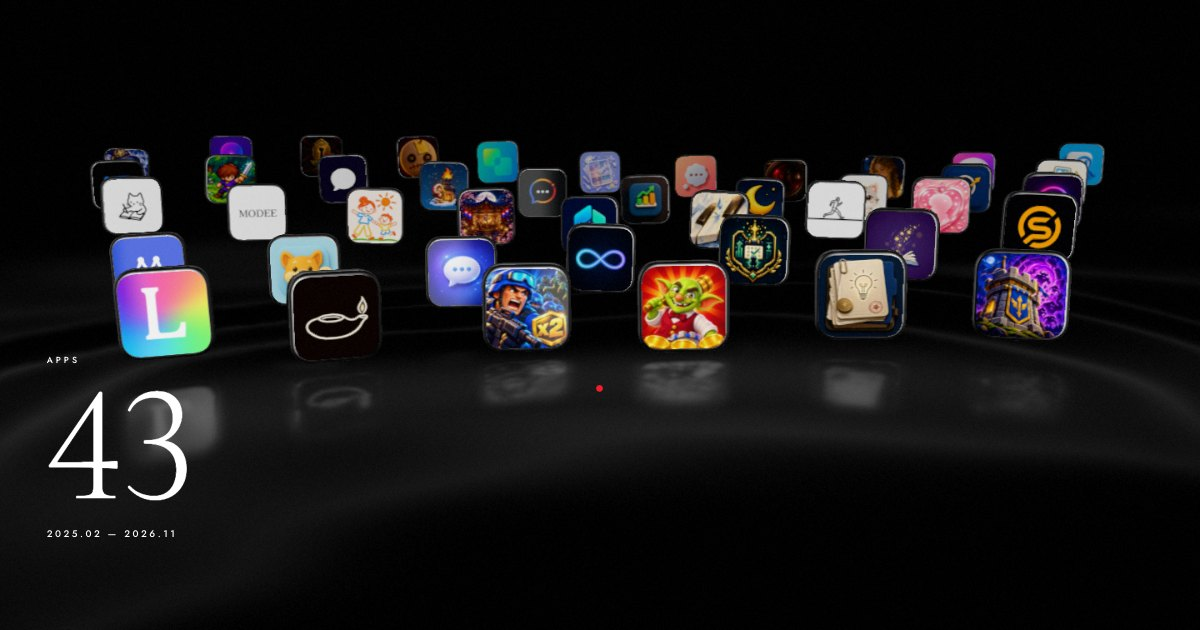
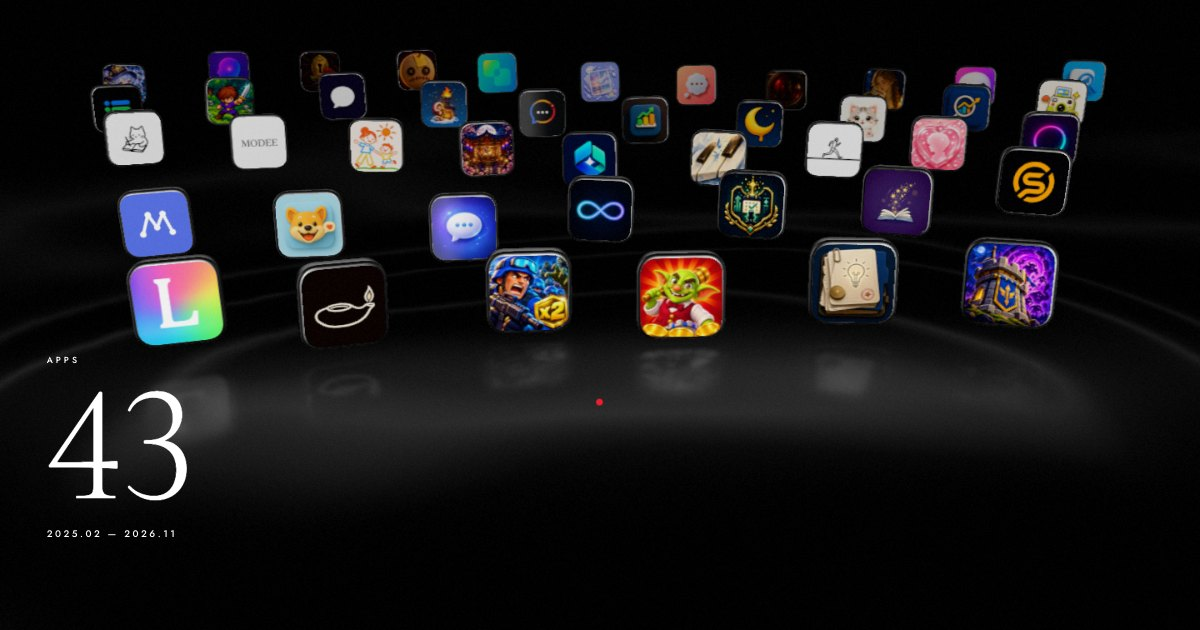
Spread the desktop first-screen rows so no app hides behind another
The desktop camera looks down a little more and the rows sit further
apart, so all 43 icons show in full on the first screen (14 were partly
covered before). Regenerate og.jpg.

Changed region(s): [[0.0617, 0.0603, 0.925, 0.7238], [0.6783, 0.573, 0.74, 0.6635], [0.4933, 0.6333, 0.5242, 0.6635]]

diff --git a/index.html b/index.html
@@ -12,14 +12,14 @@
     <meta property="og:url" content="https://won-space.com/">
     <meta property="og:title" content="won-space.com · 43 APPS">
     <meta property="og:description" content="43 apps on the App Store and Google Play, 2025.02 — 2026.11. 7 YouTube channels.">
-    <meta property="og:image" content="https://won-space.com/portfolio/og.jpg?v=20261122j">
+    <meta property="og:image" content="https://won-space.com/portfolio/og.jpg?v=20261122k">
     <meta property="og:image:width" content="1200">
     <meta property="og:image:height" content="630">
     <meta property="og:image:alt" content="App icon tiles on a dark glossy stage">
     <meta name="twitter:card" content="summary_large_image">
     <meta name="twitter:title" content="won-space.com · 43 APPS">
     <meta name="twitter:description" content="43 apps on the App Store and Google Play, 2025.02 — 2026.11. 7 YouTube channels.">
-    <meta name="twitter:image" content="https://won-space.com/portfolio/og.jpg?v=20261122j">
+    <meta name="twitter:image" content="https://won-space.com/portfolio/og.jpg?v=20261122k">
     <link rel="icon" type="image/png" sizes="32x32" href="./favicon.png?v=20260424">
     <link rel="icon" type="image/x-icon" href="./favicon.ico?v=20260424">
     <link rel="shortcut icon" type="image/x-icon" href="./favicon.ico?v=20260424">
@@ -27,9 +27,9 @@
     <link rel="preconnect" href="https://fonts.googleapis.com">
     <link rel="preconnect" href="https://fonts.gstatic.com" crossorigin>
     <link href="https://fonts.googleapis.com/css2?family=Cormorant+Garamond:wght@300;400&family=Jost:wght@400;500&family=IBM+Plex+Sans+KR:wght@400;500&display=swap" rel="stylesheet">
-    <link rel="stylesheet" href="portfolio/home.css?v=20261122j">
-    <link rel="modulepreload" href="portfolio/lib/three-0.186.1.min.js?v=20261122j">
-    <link rel="modulepreload" href="portfolio/stage.js?v=20261122j">
+    <link rel="stylesheet" href="portfolio/home.css?v=20261122k">
+    <link rel="modulepreload" href="portfolio/lib/three-0.186.1.min.js?v=20261122k">
+    <link rel="modulepreload" href="portfolio/stage.js?v=20261122k">
 </head>
 <body>
     <a class="skip-link" href="#apps">Skip to index</a>
@@ -279,6 +279,6 @@
 
         window.WON = { projects, appStats, channels, userOS, getStoreUrl, openProject };
     </script>
-    <script type="module" src="portfolio/home.js?v=20261122j"></script>
+    <script type="module" src="portfolio/home.js?v=20261122k"></script>
 </body>
 </html>

diff --git a/portfolio/stage.js b/portfolio/stage.js
@@ -31,7 +31,7 @@ import {
     WebGLRenderTarget,
     Pass,
     FullScreenQuad,
-} from "./lib/three-0.186.1.min.js?v=20261122j";
+} from "./lib/three-0.186.1.min.js?v=20261122k";
 
 const BLACK = 0x080808;
 
@@ -548,17 +548,18 @@ normal = normalize((viewMatrix * vec4(liqN, 0.0)).xyz);`)
             heroCam.pos.set(0, 7.6, 19);
             heroCam.target.set(0, 0.5, -12);
         } else {
-            heroCam.pos.set(0, 5.2, 15.5);
-            heroCam.target.set(0, -1.1, -12);
+            // 데스크톱: 조금 내려다봐서 줄과 줄 사이를 벌린다(뒷줄 앱이 앞줄에 가리지 않게).
+            heroCam.pos.set(0, 7.4, 15.5);
+            heroCam.target.set(0, -2.4, -12);
         }
         const rows = portrait ? Math.max(3, Math.round(n / 6.2)) : Math.max(3, Math.round(n / 8.6));
         const counts = rowCounts(n, rows, portrait ? 0.14 : 0.2);
         const z0 = portrait ? -3 : -4;
-        const dz = portrait ? 4.4 : 5.4;
+        const dz = portrait ? 4.4 : 6.0;
         const fill = portrait ? 0.94 : 0.86;
         const rowZ = counts.map((_, k) => z0 - k * dz);
         const halfW = (k) => fill * (heroCam.pos.z - rowZ[k]) * tanH;
-        const s = Math.min(1.5, ((2 * halfW(0)) / counts[0]) * 0.62);
+        const s = Math.min(1.5, ((2 * halfW(0)) / counts[0]) * (portrait ? 0.62 : 0.56));
         const slots = [];
         counts.forEach((c, row) => {
             const sp = (2 * halfW(row)) / c;

diff --git a/portfolio/home.js b/portfolio/home.js
@@ -30,8 +30,8 @@ import {
     Vector2,
     Vector3,
     WebGLRenderer,
-} from "./lib/three-0.186.1.min.js?v=20261122j";
-import { createStage, DepthOfFieldPass, GrainPass } from "./stage.js?v=20261122j";
+} from "./lib/three-0.186.1.min.js?v=20261122k";
+import { createStage, DepthOfFieldPass, GrainPass } from "./stage.js?v=20261122k";
 
 const W = window.WON;
 const docEl = document.documentElement;
